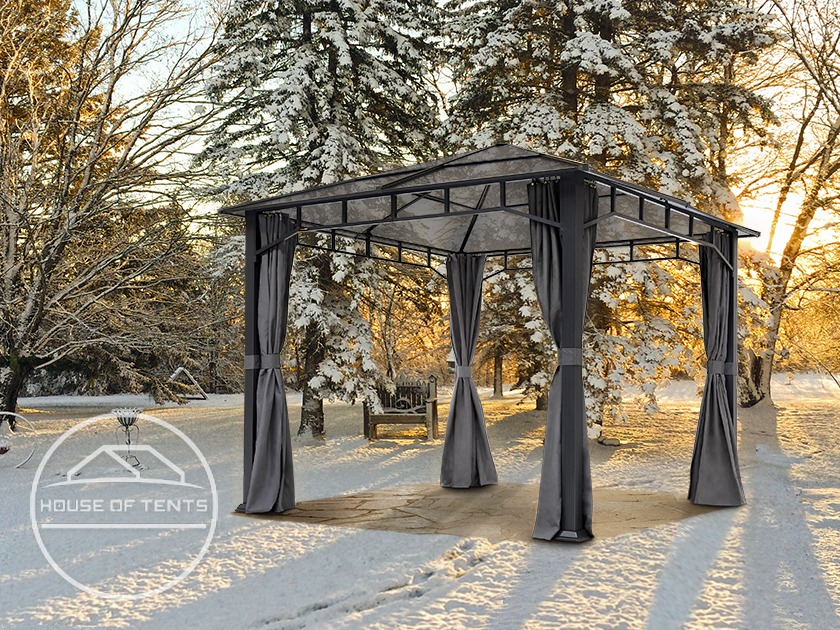
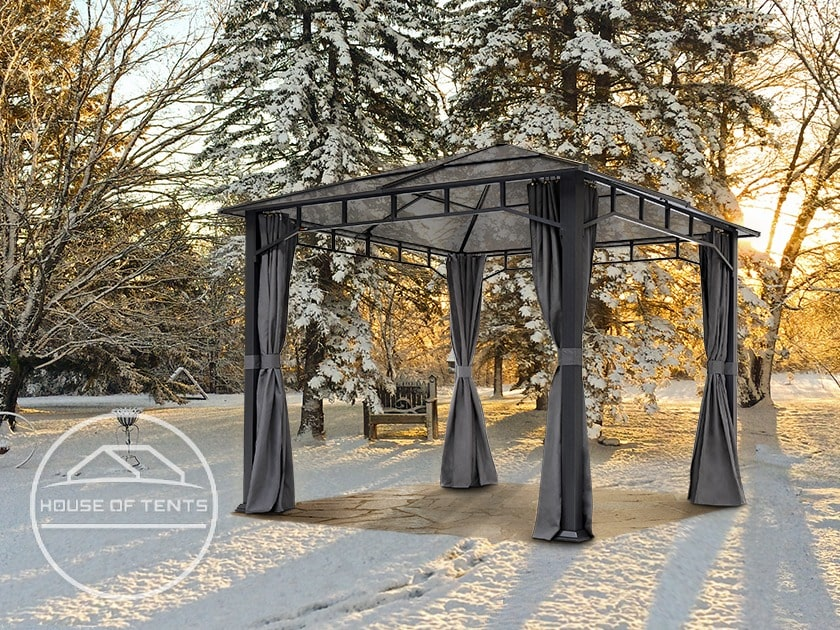
Compressed images, added a cross-browser prefixes

diff --git a/css/style.css b/css/style.css
@@ -1,5 +1,4 @@
 @charset "UTF-8";
-/*! normalize.css v8.0.1 | MIT License | github.com/necolas/normalize.css */
 html {
   line-height: 1.15;
   -webkit-text-size-adjust: 100%;
@@ -21,7 +20,8 @@ h1 {
 }
 
 hr {
-  box-sizing: content-box;
+  -webkit-box-sizing: content-box;
+          box-sizing: content-box;
   height: 0;
   overflow: visible;
 }
@@ -126,7 +126,8 @@ fieldset {
 }
 
 legend {
-  box-sizing: border-box;
+  -webkit-box-sizing: border-box;
+          box-sizing: border-box;
   color: inherit;
   display: table;
   max-width: 100%;
@@ -144,7 +145,8 @@ textarea {
 
 [type=checkbox],
 [type=radio] {
-  box-sizing: border-box;
+  -webkit-box-sizing: border-box;
+          box-sizing: border-box;
   padding: 0;
 }
 
@@ -196,12 +198,14 @@ h1 {
   margin-top: 1em;
   margin-bottom: 0.7em;
   font-weight: 600;
-  animation-duration: 2s;
+  -webkit-animation-duration: 2s;
+          animation-duration: 2s;
 }
 
 h2,
 h3 {
-  animation-duration: 2s;
+  -webkit-animation-duration: 2s;
+          animation-duration: 2s;
   margin-bottom: 0.7em;
   line-height: 1.3em;
 }
@@ -237,6 +241,8 @@ a {
   text-decoration: none;
   opacity: 0.7;
   color: #1c70dc;
+  -webkit-transition: ease 0.2s;
+  -o-transition: ease 0.2s;
   transition: ease 0.2s;
 }
 
@@ -246,9 +252,15 @@ a {
   padding-bottom: 0.5em;
 }
 .main-nav .container-lg {
+  display: -webkit-box;
+  display: -ms-flexbox;
   display: flex;
-  justify-content: space-between;
-  align-items: start;
+  -webkit-box-pack: justify;
+      -ms-flex-pack: justify;
+          justify-content: space-between;
+  -webkit-box-align: start;
+      -ms-flex-align: start;
+          align-items: start;
 }
 .main-nav .main-nav__basket {
   color: #fff;
@@ -256,6 +268,8 @@ a {
   line-height: 1.2em;
   margin-left: 1em;
   cursor: pointer;
+  -webkit-transition: 0.3s ease;
+  -o-transition: 0.3s ease;
   transition: 0.3s ease;
 }
 .main-nav .main-nav__basket svg {
@@ -268,9 +282,16 @@ a {
   opacity: 0.7;
 }
 .main-nav .main-nav__basket-title {
+  display: -webkit-box;
+  display: -ms-flexbox;
   display: flex;
-  flex-direction: column;
-  align-items: flex-end;
+  -webkit-box-orient: vertical;
+  -webkit-box-direction: normal;
+      -ms-flex-direction: column;
+          flex-direction: column;
+  -webkit-box-align: end;
+      -ms-flex-align: end;
+          align-items: flex-end;
 }
 .main-nav .navbar-collapse {
   padding-top: 1em;
@@ -280,9 +301,12 @@ a {
   color: white;
 }
 .main-nav .navbar-toggler:focus {
-  box-shadow: none;
+  -webkit-box-shadow: none;
+          box-shadow: none;
 }
 .main-nav .nav-item {
+  -webkit-transition: 0.3s ease-in-out;
+  -o-transition: 0.3s ease-in-out;
   transition: 0.3s ease-in-out;
 }
 .main-nav .nav-item .nav-link {
@@ -309,7 +333,8 @@ a {
 }
 .main-nav__search button {
   color: #fff;
-  box-shadow: 2px 2px 2px rgba(0, 0, 0, 0.2);
+  -webkit-box-shadow: 2px 2px 2px rgba(0, 0, 0, 0.2);
+          box-shadow: 2px 2px 2px rgba(0, 0, 0, 0.2);
   background-color: #1c70dc;
   border-radius: 0;
   border: 1px solid #1c70dc;
@@ -324,6 +349,8 @@ a {
 }
 
 .show-sm {
+  display: -webkit-box;
+  display: -ms-flexbox;
   display: flex;
 }
 
@@ -338,10 +365,19 @@ a {
   padding: 0.7em 1em 2.7em 1em;
 }
 .promo .promo-section__item {
+  display: -webkit-box;
+  display: -ms-flexbox;
   display: flex;
-  flex-direction: column;
-  align-items: center;
-  justify-content: center;
+  -webkit-box-orient: vertical;
+  -webkit-box-direction: normal;
+      -ms-flex-direction: column;
+          flex-direction: column;
+  -webkit-box-align: center;
+      -ms-flex-align: center;
+          align-items: center;
+  -webkit-box-pack: center;
+      -ms-flex-pack: center;
+          justify-content: center;
 }
 .promo .promo-section__item:not(:last-child) {
   border-bottom: 3px solid #fdb200;
@@ -373,9 +409,16 @@ a {
 .materialsComparsion .card .card-body {
   padding-left: 0;
   padding-right: 0;
+  display: -webkit-box;
+  display: -ms-flexbox;
   display: flex;
-  flex-direction: column;
-  justify-content: space-between;
+  -webkit-box-orient: vertical;
+  -webkit-box-direction: normal;
+      -ms-flex-direction: column;
+          flex-direction: column;
+  -webkit-box-pack: justify;
+      -ms-flex-pack: justify;
+          justify-content: space-between;
 }
 .materialsComparsion .card .card-title::after {
   width: 3rem;
@@ -505,7 +548,8 @@ a {
 #faq .card .btn-check:focus + .btn,
 #faq .card .btn:focus {
   outline: none;
-  box-shadow: none;
+  -webkit-box-shadow: none;
+          box-shadow: none;
 }
 
 .carousel-indicators [data-bs-target] {
@@ -538,10 +582,19 @@ a {
 }
 .contacts .contacts__section {
   background-color: #fff;
+  display: -webkit-box;
+  display: -ms-flexbox;
   display: flex;
-  flex-direction: column;
-  justify-content: center;
-  align-items: center;
+  -webkit-box-orient: vertical;
+  -webkit-box-direction: normal;
+      -ms-flex-direction: column;
+          flex-direction: column;
+  -webkit-box-pack: center;
+      -ms-flex-pack: center;
+          justify-content: center;
+  -webkit-box-align: center;
+      -ms-flex-align: center;
+          align-items: center;
   text-align: center;
   padding: 1em 0 2em 0;
 }
@@ -578,15 +631,23 @@ main {
 
 footer {
   background-color: #1c70dc;
+  display: -webkit-box;
+  display: -ms-flexbox;
   display: flex;
-  flex-wrap: wrap;
-  align-items: center;
-  justify-content: center;
+  -ms-flex-wrap: wrap;
+      flex-wrap: wrap;
+  -webkit-box-align: center;
+      -ms-flex-align: center;
+          align-items: center;
+  -webkit-box-pack: center;
+      -ms-flex-pack: center;
+          justify-content: center;
   padding: 1em;
   color: #fff;
   font-size: 0.9em;
   font-weight: 700;
-  box-shadow: 0 -8px 10px -7px rgba(0, 0, 0, 0.5);
+  -webkit-box-shadow: 0 -8px 10px -7px rgba(0, 0, 0, 0.5);
+          box-shadow: 0 -8px 10px -7px rgba(0, 0, 0, 0.5);
 }
 footer a {
   color: #fff;
@@ -625,10 +686,10 @@ footer .btn:hover {
   }
 
   .promo .promo-section__item i {
-    margin-bottom: 2em;
+    margin-bottom: 1.6em;
   }
   .promo .promo-section__item h4 {
-    margin-bottom: 1.5rem;
+    margin-bottom: 1.3rem;
   }
 
   .weather img {
@@ -648,15 +709,16 @@ footer .btn:hover {
   }
 
   .hide-lg {
+    display: -webkit-box;
+    display: -ms-flexbox;
     display: flex;
   }
 
   .promo .promo-section {
-    padding-right: 60px;
-    padding-left: 45px;
+    padding: 0 4em 1em 3em;
   }
   .promo .promo-section__item:not(:nth-child(3)) h4 {
-    margin-bottom: 2.5em;
+    margin-bottom: 1.5em;
   }
 }
 @media (min-width: 768px) {

diff --git a/scss/style.scss b/scss/style.scss
@@ -507,11 +507,11 @@ footer {
 
     .promo .promo-section__item {
         i {
-            margin-bottom: 2em;
+            margin-bottom: 1.6em;
         }
 
         h4 {
-            margin-bottom: 1.5rem;
+            margin-bottom: 1.3rem;
         }
     }
 
@@ -542,12 +542,11 @@ footer {
 
     .promo {
         .promo-section {
-            padding-right: 60px;
-            padding-left: 45px;
+            padding:0 4em 1em 3em;
         }
 
         .promo-section__item:not(:nth-child(3)) h4 {
-            margin-bottom: 2.5em;
+            margin-bottom: 1.5em;
         }
     }
 }

diff --git a/scss/normalize.scss b/scss/normalize.scss
@@ -1,4 +1,3 @@
-/*! normalize.css v8.0.1 | MIT License | github.com/necolas/normalize.css */
 html {
   line-height: 1.15;
   -webkit-text-size-adjust: 100%;
